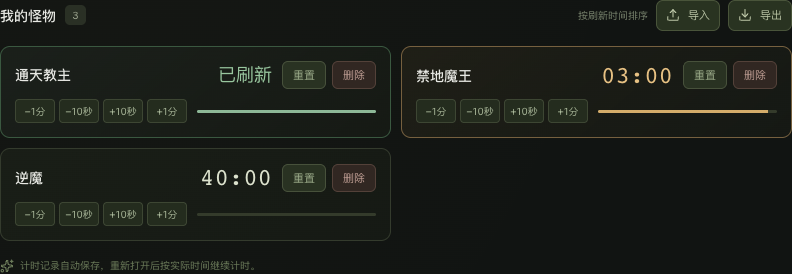
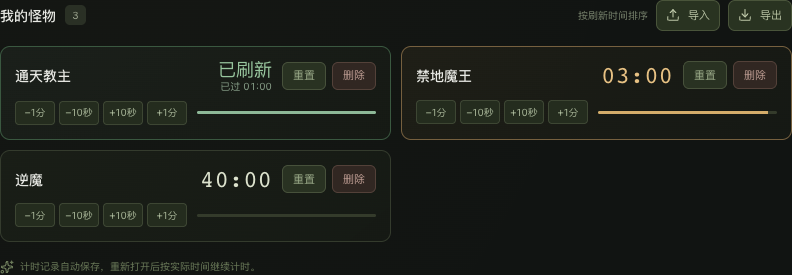
feat: show elapsed time after monster refresh

diff --git a/tests/timer.spec.ts b/tests/timer.spec.ts
@@ -225,7 +225,7 @@ test("多个计时器排序、状态展示及单独重置", async ({ page }) => 
   await expect(page.getByRole("article").first()).toContainText("通天教主");
   await expect(
     page.getByRole("timer", { name: "通天教主刷新倒计时" }),
-  ).toHaveText("已刷新");
+  ).toHaveText("已刷新已过 01:00");
   await expect(
     page.getByRole("timer", { name: "禁地魔王刷新倒计时" }),
   ).toHaveText("03:00");
@@ -346,7 +346,7 @@ test("精简窗口缩小并恢复原尺寸，计时与表单输入保留", async
   );
   await expect(
     page.getByRole("timer", { name: "通天教主刷新倒计时" }),
-  ).toHaveText("已刷新");
+  ).toHaveText("已刷新已过 01:00");
   expect(
     await page.evaluate(
       () => document.documentElement.scrollWidth > window.innerWidth,
@@ -917,7 +917,7 @@ test("微调到零显示已刷新且进度填满", async ({ page }) => {
     afterAdjust: [{ ...waiting, deadline: now }],
   });
   await page.getByRole("button", { name: "逆魔 −1分", exact: true }).click();
-  await expect(page.getByRole("timer")).toHaveText("已刷新");
+  await expect(page.getByRole("timer")).toHaveText("已刷新已过 00:00");
   await expect(page.getByRole("progressbar")).toHaveAttribute(
     "aria-valuenow",
     "100",
@@ -1014,7 +1014,9 @@ for (const width of [320, 303]) {
         await expect(reminder).not.toBeVisible();
       }
       if (phase === "ready" || phase === "acknowledged")
-        await expect(page.getByRole("timer").first()).toHaveText("已刷新");
+        await expect(page.getByRole("timer").first()).toHaveText(
+          "已刷新已过 00:00",
+        );
       if (phase === "ready" && width === 303) {
         await page.evaluate(() => scrollTo(0, 0));
         await page.screenshot({
@@ -1047,3 +1049,84 @@ for (const width of [320, 303]) {
     }
   });
 }
+
+for (const elapsed of [
+  { milliseconds: 999, text: "已过 00:00" },
+  { milliseconds: 3_599_999, text: "已过 59:59" },
+  { milliseconds: 3_600_000, text: "已过 01:00:00" },
+  { milliseconds: 90_061_000, text: "已过 25:01:01" },
+  { milliseconds: now, text: "已过 497499:10:00" },
+]) {
+  test(`未重置记录显示 ${elapsed.text}，两种界面保持紧凑`, async ({ page }) => {
+    const expired = {
+      ...ready,
+      name: "长名称怪物".repeat(7),
+      startedAt: Math.max(0, now - elapsed.milliseconds - 5_400_000),
+      deadline: now - elapsed.milliseconds,
+    };
+    await installNativeFixture(page, { now, timers: [expired], alerts: [] });
+    const card = page.getByRole("article");
+    await expect(card.getByRole("timer")).toContainText("已刷新");
+    await expect(card.locator(".elapsed-time")).toHaveText(elapsed.text);
+    expect((await card.boundingBox())?.height).toBeLessThanOrEqual(94);
+    await page.getByRole("button", { name: "精简模式", exact: true }).click();
+    await page.setViewportSize({ width: 303, height: 600 });
+    await expect(card.locator(".elapsed-time")).toHaveText(elapsed.text);
+    expect((await card.boundingBox())?.height).toBeLessThanOrEqual(82);
+    expect(
+      await page.evaluate(
+        () =>
+          document.documentElement.scrollWidth <=
+          document.documentElement.clientWidth,
+      ),
+    ).toBe(true);
+    const reset = await card
+      .getByRole("button", { name: /重置/ })
+      .boundingBox();
+    expect((reset?.x ?? 0) + (reset?.width ?? 0)).toBeLessThanOrEqual(303);
+  });
+}
+
+test("已过时间随后台时钟更新，重载恢复，加时和重置恢复倒计时", async ({
+  page,
+}) => {
+  await installNativeFixture(page, {
+    now,
+    timers: [ready],
+    alerts: [],
+    afterAdjust: [{ ...ready, deadline: now + 60_000, refreshed: false }],
+    afterReset: [
+      { ...ready, startedAt: now, deadline: now + 5_400_000, refreshed: false },
+    ],
+  });
+  await expect(page.locator(".elapsed-time")).toHaveText("已过 01:00");
+  await page.evaluate((nextNow) => {
+    const internals = Reflect.get(window, "__TAURI_INTERNALS__");
+    const original = internals.invoke;
+    internals.invoke = async (
+      command: string,
+      args: Record<string, unknown>,
+    ) => {
+      const result = await original(command, args);
+      if (command === "get_snapshot") result.now = nextNow;
+      return result;
+    };
+  }, now + 1_000);
+  await expect(page.locator(".elapsed-time")).toHaveText("已过 01:01");
+  await page.reload();
+  await expect(page.locator(".elapsed-time")).toHaveText("已过 01:00");
+  await page.getByRole("button", { name: "精简模式", exact: true }).click();
+  await page.setViewportSize({ width: 303, height: 600 });
+  await page
+    .getByRole("button", { name: "通天教主 +1分", exact: true })
+    .click();
+  await expect(page.getByRole("timer")).toHaveText("01:00");
+  await expect(page.locator(".elapsed-time")).toHaveCount(0);
+  await page.getByRole("button", { name: "重置通天教主计时" }).click();
+  await expect(page.getByRole("timer")).toHaveText("90:00");
+  await expect(page.locator(".elapsed-time")).toHaveCount(0);
+  await expect(page.getByRole("progressbar")).toHaveAttribute(
+    "aria-valuenow",
+    "0",
+  );
+});

diff --git a/src/App.tsx b/src/App.tsx
@@ -818,6 +818,23 @@ const App = () => {
                       ) +
                       ":" +
                       String(remainingSeconds % 60).padStart(2, "0");
+                const elapsedSeconds = Math.max(
+                  0,
+                  Math.floor((snapshot.now - timer.deadline) / 1000),
+                );
+                const elapsedTime =
+                  (elapsedSeconds >= 3600
+                    ? String(Math.floor(elapsedSeconds / 3600)).padStart(
+                        2,
+                        "0",
+                      ) + ":"
+                    : "") +
+                  String(Math.floor(elapsedSeconds / 60) % 60).padStart(
+                    2,
+                    "0",
+                  ) +
+                  ":" +
+                  String(elapsedSeconds % 60).padStart(2, "0");
                 const progress =
                   remainingSeconds === 0
                     ? 100
@@ -843,6 +860,9 @@ const App = () => {
                       aria-label={timer.name + "刷新倒计时"}
                     >
                       {countdown}
+                      {remainingSeconds === 0 && (
+                        <span className="elapsed-time">已过 {elapsedTime}</span>
+                      )}
                     </strong>
                     <div className="card-actions">
                       <button
@@ -939,7 +959,7 @@ const App = () => {
       <footer>
         <span>青回传世 · 怪物计时器</span>
         <span>
-          专注每一场战斗 <span className="footer-dot">·</span> v0.3.1
+          专注每一场战斗 <span className="footer-dot">·</span> v0.3.2
         </span>
       </footer>
       <dialog

diff --git a/src/App.css b/src/App.css
@@ -542,9 +542,18 @@ main {
   color: #e7c183;
 }
 .ready .countdown {
+  display: flex;
+  flex-direction: column;
+  align-items: flex-end;
+  gap: 2px;
   font-family: inherit;
   font-size: 18px;
+  line-height: 1;
   color: #98c69e;
+}
+.elapsed-time {
+  font-size: 10px;
+  color: #89a18a;
 }
 .progress-track {
   flex: 1;

diff --git a/README.md b/README.md
@@ -11,11 +11,11 @@
 5. 点击右上角「精简模式」，切换为约 320×600 的竖向信息条；拖动系统标题栏将它放到侧边。每条约 80px 高，显示怪物名称、倒计时、细进度条、「重置」及四个微调按钮，多条记录可滚动查看。
 6. 图钉按钮可开启／取消窗口置顶；展开按钮返回原来的完整窗口尺寸。精简模式的提醒显示为窗内小提示条，确认前仍可重置计时器；完整模式继续使用弹框。
 
-自定义周期为 1～1440 整数分钟。周期不超过 3 分钟时，开始计时后立即预提醒。到点后保留「已刷新」状态，等待手动重置；不会自动开始下一轮。相同名称的计时器也互不影响，可以在名称中写上线路或地图以便区分。
+自定义周期为 1～1440 整数分钟。周期不超过 3 分钟时，开始计时后立即预提醒。到点后保留「已刷新」状态，下方显示「已过 02:15」，表示超过刷新时间 2 分 15 秒；满一小时显示时、分、秒，例如「已过 01:02:15」，小时超过 24 也会继续累计。完整和精简界面均每秒更新，按保存的刷新时间戳计算，重启后继续显示；重置或加时恢复倒计时后不再显示已过时间。不会自动开始下一轮。相同名称的计时器也互不影响，可以在名称中写上线路或地图以便区分。
 
 请保持应用运行。最小化不会停止 Rust 后台计时；退出应用、电脑关机或休眠期间无法发送提醒。重新打开或唤醒后按照实际刷新时间恢复，已过期的怪物直接提醒「已刷新」。已确认的提醒不会重复出现。系统通知还受系统权限和勿扰设置影响。
 
-主界面怪物卡片约 92px 高，显示名称、倒计时、进度条、独立的「重置」「删除」及四个微调按钮。没有大块添加占位，长名称截断显示，鼠标悬停可查看全名。
+主界面怪物卡片约 92～94px 高，显示名称、倒计时、进度条、独立的「重置」「删除」及四个微调按钮。没有大块添加占位，长名称截断显示，鼠标悬停可查看全名。
 
 两种界面均可使用「−1分」「−10秒」「+10秒」「+1分」校准当前轮的刷新时间。减时最多减到零；已刷新时加时从现在开始延后。微调不改变刷新周期和上次重置时间，重置仍使用原周期。进度条按调整后的当前轮时间计算，结果自动保存，重启与导入导出均保留。最后 3 分钟内连续微调不会重复生成已确认的预提醒；延长至超过 3 分钟后，再次进入提醒区间会正常提醒。
 
@@ -44,12 +44,14 @@
 
 本次构建产物放在 `releases/`：
 
-- [macOS 通用版 0.3.0](releases/青回传世怪物计时器_0.3.0_macOS_通用版.dmg)：打开 DMG，将应用拖入「应用程序」。包含 Apple Silicon 与 Intel 两种架构，最低系统版本为 macOS 11。
-- [Windows x64 中文安装版 0.3.1](releases/青回传世怪物计时器_0.3.1_Windows_x64_安装版.exe)：运行安装程序，完成后从开始菜单启动。面向 Windows 10/11 x64；安装程序会检查 WebView2，缺少运行库时下载并安装。
+- [macOS 通用版 0.3.2](releases/青回传世怪物计时器_0.3.2_macOS_通用版.dmg)：打开 DMG，将应用拖入「应用程序」。包含 Apple Silicon 与 Intel 两种架构，最低系统版本为 macOS 11。
+- [Windows x64 中文安装版 0.3.2](releases/青回传世怪物计时器_0.3.2_Windows_x64_安装版.exe)：运行安装程序，完成后从开始菜单启动。面向 Windows 10/11 x64；安装程序会检查 WebView2，缺少运行库时下载并安装。
 
 0.3.1 修复精简窗口在纵向滚动条占宽后出现横向滚动的问题；批量提醒中的长名称会截断显示，提醒列表和怪物列表继续支持纵向滚动。
 
-当前是未使用开发者证书签名的本地版本，尚未完成 macOS 公证。macOS 0.3.0 已在 Apple Silicon 本机验证，包括微调、重启恢复及版本 2 分享导入。Windows 安装包已构建并校验，尚未实机验证。详细范围见 [验证报告](docs/verification.md)。系统若阻止启动，请通过系统提示或「隐私与安全性」查看该应用的打开选项。
+0.3.2 在「已刷新」下方增加已过时间，继续保持双模式卡片紧凑及窄窗口无横向溢出。
+
+当前是未使用开发者证书签名的本地版本，尚未完成 macOS 公证。macOS 0.3.2 已在 Apple Silicon 本机验证两种界面的已过时间及重启恢复；微调与版本 2 分享导入曾在 0.3.0 实测通过。Windows 安装包已构建并校验，尚未实机验证。详细范围见 [验证报告](docs/verification.md)。系统若阻止启动，请通过系统提示或「隐私与安全性」查看该应用的打开选项。
 
 ## 本地开发
 
